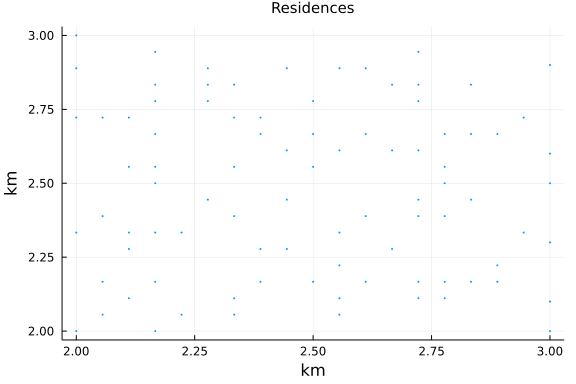
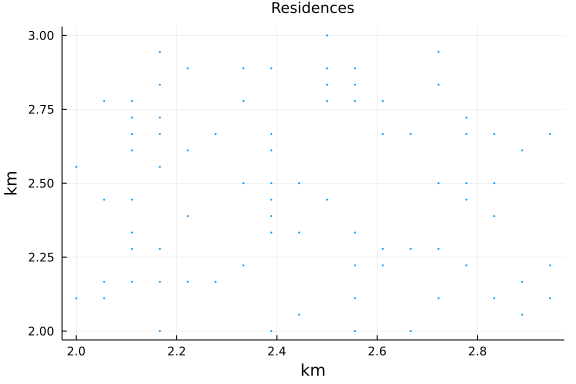
implement evolution_rules

diff --git a/docs/src/examples/random_scenario.md b/docs/src/examples/random_scenario.md
@@ -275,12 +275,12 @@ res_blocks_distrib = EpiSiming.gen_res_blocks(pop_blocks, res_size_distribution)
 
 ```
 6×12 Matrix{Vector{Int64}}:
- [8, 19, 28, 19, 4, 4, 1, 1]  …  [1, 2, 4, 2, 0, 0, 0, 0]
- [3, 7, 10, 7, 1, 2, 1, 0]       [6, 15, 21, 13, 4, 3, 1, 0]
- [2, 6, 8, 5, 1, 2, 0, 0]        [7, 14, 22, 16, 3, 4, 1, 0]
- [4, 11, 15, 9, 3, 2, 0, 0]      [8, 16, 27, 16, 3, 3, 1, 0]
- [6, 13, 20, 12, 2, 3, 1, 0]     [5, 12, 18, 10, 3, 2, 0, 0]
- [4, 11, 16, 11, 2, 2, 0, 0]  …  [7, 12, 17, 12, 2, 2, 0, 0]
+ [9, 18, 28, 20, 5, 4, 1, 0]  …  [0, 1, 5, 2, 0, 0, 0, 0]
+ [3, 10, 12, 6, 2, 1, 0, 0]      [6, 15, 21, 13, 4, 3, 1, 0]
+ [3, 7, 9, 5, 1, 1, 0, 0]        [6, 17, 25, 14, 3, 3, 1, 0]
+ [6, 12, 14, 10, 2, 2, 0, 0]     [7, 17, 25, 16, 4, 3, 1, 0]
+ [8, 15, 20, 12, 2, 2, 1, 0]     [4, 11, 15, 11, 2, 3, 1, 0]
+ [6, 11, 16, 9, 2, 3, 0, 0]   …  [5, 11, 18, 11, 3, 2, 0, 0]
 ```
 
 
@@ -339,19 +339,21 @@ residences = EpiSiming.gen_residences(rng, res_blocks_distrib)
  (1, (1.3333333333333333, 1.7777777777777777), 1, [6])
  (1, (1.5555555555555556, 1.0555555555555556), 1, [7])
  (1, (1.5555555555555556, 1.2777777777777777), 1, [8])
- (1, (1.6111111111111112, 1.6111111111111112), 2, [9, 10])
- (1, (1.7222222222222223, 1.7222222222222223), 2, [11, 12])
+ (1, (1.6111111111111112, 1.6111111111111112), 1, [9])
+ (1, (1.7222222222222223, 1.7222222222222223), 2, [10, 11])
  ⋮
- (72, (6.857142857142857, 12.071428571428571), 4, [9959, 9960, 9961, 9962])
- (72, (6.642857142857143, 12.071428571428571), 4, [9963, 9964, 9965, 9966])
- (72, (6.928571428571429, 12.785714285714286), 4, [9967, 9968, 9969, 9970])
- (72, (6.357142857142857, 12.214285714285714), 4, [9971, 9972, 9973, 9974])
- (72, (6.071428571428571, 12.642857142857142), 4, [9975, 9976, 9977, 9978])
- (72, (6.357142857142857, 12.5), 5, [9979, 9980, 9981, 9982, 9983])
- (72, (6.285714285714286, 12.0), 5, [9984, 9985, 9986, 9987, 9988])
- (72, (6.785714285714286, 12.285714285714286), 6, [9989, 9990, 9991, 9992, 
+ (72, (6.714285714285714, 12.071428571428571), 4, [9958, 9959, 9960, 9961])
+ (72, (6.5, 12.071428571428571), 4, [9962, 9963, 9964, 9965])
+ (72, (6.857142857142857, 12.785714285714286), 4, [9966, 9967, 9968, 9969])
+ (72, (6.214285714285714, 12.214285714285714), 4, [9970, 9971, 9972, 9973])
+ (72, (6.0, 12.642857142857142), 5, [9974, 9975, 9976, 9977, 9978])
+ (72, (6.857142857142857, 12.142857142857142), 5, [9979, 9980, 9981, 9982, 
+9983])
+ (72, (6.214285714285714, 12.357142857142858), 5, [9984, 9985, 9986, 9987, 
+9988])
+ (72, (6.642857142857143, 12.285714285714286), 6, [9989, 9990, 9991, 9992, 
 9993, 9994])
- (72, (6.714285714285714, 12.285714285714286), 6, [9995, 9996, 9997, 9998, 
+ (72, (6.571428571428571, 12.285714285714286), 6, [9995, 9996, 9997, 9998, 
 9999, 10000])
 ```
 
@@ -438,26 +440,26 @@ population = EpiSiming.gen_population(
  0.7458566679008322, Dict{Symbol, Int64}(), Dict{Symbol, Int64}())
  (S, 1, 9, (1.625, 1.6111111111111112), 12, 0.7533507391116316, 1.059750152
 7579962, Dict{Symbol, Int64}(), Dict{Symbol, Int64}())
- (S, 1, 9, (1.5972222222222223, 1.6111111111111112), 56, 1.0583784725947785
-, 0.6163376056877701, Dict{Symbol, Int64}(), Dict{Symbol, Int64}())
+ (S, 1, 10, (1.7361111111111112, 1.7222222222222223), 56, 1.058378472594778
+5, 0.6163376056877701, Dict{Symbol, Int64}(), Dict{Symbol, Int64}())
  ⋮
- (S, 1, 3290, (6.767857142857142, 12.285714285714286), 39, 0.74255598711622
-12, 1.878529197903739, Dict{Symbol, Int64}(), Dict{Symbol, Int64}())
- (S, 1, 3290, (6.776785714285714, 12.270249546360994), 34, 1.34674187151745
+ (S, 1, 3290, (6.625, 12.285714285714286), 39, 0.7425559871162212, 1.878529
+197903739, Dict{Symbol, Int64}(), Dict{Symbol, Int64}())
+ (S, 1, 3290, (6.633928571428572, 12.270249546360994), 34, 1.34674187151745
 64, 0.6158224898743601, Dict{Symbol, Int64}(), Dict{Symbol, Int64}())
- (S, 1, 3290, (6.794642857142857, 12.270249546360994), 62, 0.57132546847696
+ (S, 1, 3290, (6.651785714285714, 12.270249546360994), 62, 0.57132546847696
 75, 1.2604338561736381, Dict{Symbol, Int64}(), Dict{Symbol, Int64}())
- (S, 1, 3291, (6.732142857142858, 12.285714285714286), 12, 0.71166954083545
+ (S, 1, 3291, (6.589285714285714, 12.285714285714286), 12, 0.71166954083545
 , 0.6573989249359745, Dict{Symbol, Int64}(), Dict{Symbol, Int64}())
- (S, 1, 3291, (6.723214285714286, 12.30117902506758), 59, 0.929912350184238
+ (S, 1, 3291, (6.580357142857142, 12.30117902506758), 59, 0.929912350184238
 7, 0.5603267260793015, Dict{Symbol, Int64}(), Dict{Symbol, Int64}())
- (S, 1, 3291, (6.705357142857143, 12.30117902506758), 37, 0.349547870539775
-4, 0.7703472343146436, Dict{Symbol, Int64}(), Dict{Symbol, Int64}())
- (S, 1, 3291, (6.696428571428571, 12.285714285714286), 22, 0.69468128433558
+ (S, 1, 3291, (6.5625, 12.30117902506758), 37, 0.3495478705397754, 0.770347
+2343146436, Dict{Symbol, Int64}(), Dict{Symbol, Int64}())
+ (S, 1, 3291, (6.553571428571428, 12.285714285714286), 22, 0.69468128433558
 63, 2.073824042353887, Dict{Symbol, Int64}(), Dict{Symbol, Int64}())
- (S, 1, 3291, (6.705357142857143, 12.270249546360994), 37, 1.12937777854397
-65, 1.4010740192330449, Dict{Symbol, Int64}(), Dict{Symbol, Int64}())
- (S, 1, 3291, (6.723214285714286, 12.270249546360994), 17, 0.89594542046504
+ (S, 1, 3291, (6.5625, 12.270249546360994), 37, 1.1293777785439765, 1.40107
+40192330449, Dict{Symbol, Int64}(), Dict{Symbol, Int64}())
+ (S, 1, 3291, (6.580357142857142, 12.270249546360994), 17, 0.89594542046504
 64, 1.9864694366090996, Dict{Symbol, Int64}(), Dict{Symbol, Int64}())
 ```
 
@@ -715,35 +717,13 @@ num_exposed_at_time_0 = div(num_population, 500) # (= 0.2%) 20
 
 exposed_at_time_0 = sample(rng, 1:num_population, num_exposed_at_time_0, replace = false)
 
-population.phase[exposed_at_time_0] .= EXPOSED
+# population.phase[exposed_at_time_0] .= EXPOSED
+for n in exposed_at_time_0
+    population.phase[n] = EXPOSED
+    next_change, next_phase = EpiSiming.evolution_rules(rng, EXPOSED)
+    population.evolve_to[n] = (next_phase, 1 + next_change)
+end
 ```
-
-```
-20-element view(::Vector{EpiSiming.Phase}, [4068, 2363, 5972, 9990, 1580, 2
-346, 9536, 1530, 3568, 9472, 9583, 1145, 3449, 4763, 8785, 5427, 9500, 8014
-, 3970, 7360]) with eltype EpiSiming.Phase:
- E
- E
- E
- E
- E
- E
- E
- E
- E
- E
- E
- E
- E
- E
- E
- E
- E
- E
- E
- E
-```
-
 
 
 
@@ -781,29 +761,29 @@ time_step = 1
 ```
 
 ```
-1.772811 seconds (22.32 k allocations: 12.942 MiB)
-  0.188167 seconds (2 allocations: 19.766 KiB)
+1.575204 seconds (26.17 k allocations: 22.264 MiB, 2.43% gc time)
+  0.234408 seconds (2 allocations: 19.766 KiB)
 360×7 Matrix{Int64}:
  9980  20   0   0     0  0  0
- 9980  13   2   5     0  0  0
- 9976  12   4   7     1  0  0
- 9970  14   7   6     3  0  0
- 9967  14   8   6     5  0  0
- 9963  13  10   7     7  0  0
- 9959  12  11   8    10  0  0
- 9954  11  14   6    15  0  0
- 9948  10  11  12    19  0  0
- 9942  14  11   9    23  1  0
+ 9980  13   4   3     0  0  0
+ 9979   9   7   4     1  0  0
+ 9973  12   9   5     1  0  0
+ 9971   9  11   6     3  0  0
+ 9964  12  12   8     4  0  0
+ 9959  14   9  10     8  0  0
+ 9955  13  14   6    12  0  0
+ 9948  17  12   8    15  0  0
+ 9943  16  11  12    18  0  0
     ⋮                    ⋮  
- 6581   0   0   0  3419  0  0
- 6581   0   0   0  3419  0  0
- 6581   0   0   0  3419  0  0
- 6581   0   0   0  3419  0  0
- 6581   0   0   0  3419  0  0
- 6581   0   0   0  3419  0  0
- 6581   0   0   0  3419  0  0
- 6581   0   0   0  3419  0  0
- 6581   0   0   0  3419  0  0
+ 5872   0   0   0  4128  0  0
+ 5872   0   0   0  4128  0  0
+ 5872   0   0   0  4128  0  0
+ 5872   0   0   0  4128  0  0
+ 5872   0   0   0  4128  0  0
+ 5872   0   0   0  4128  0  0
+ 5872   0   0   0  4128  0  0
+ 5872   0   0   0  4128  0  0
+ 5872   0   0   0  4128  0  0
 ```
 
 
